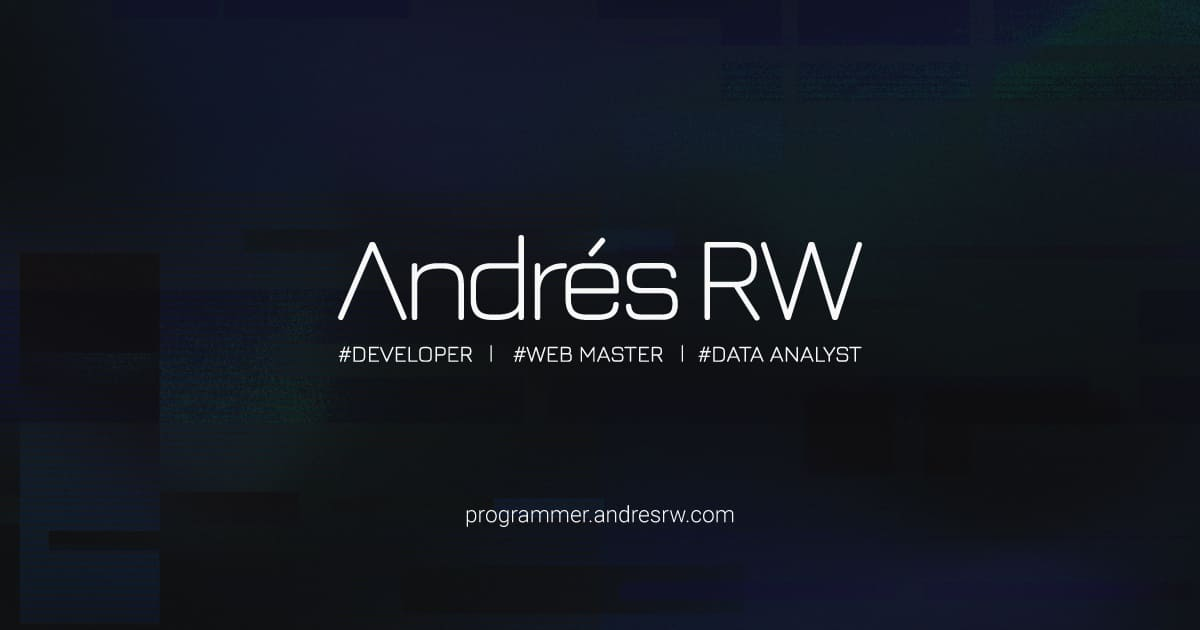
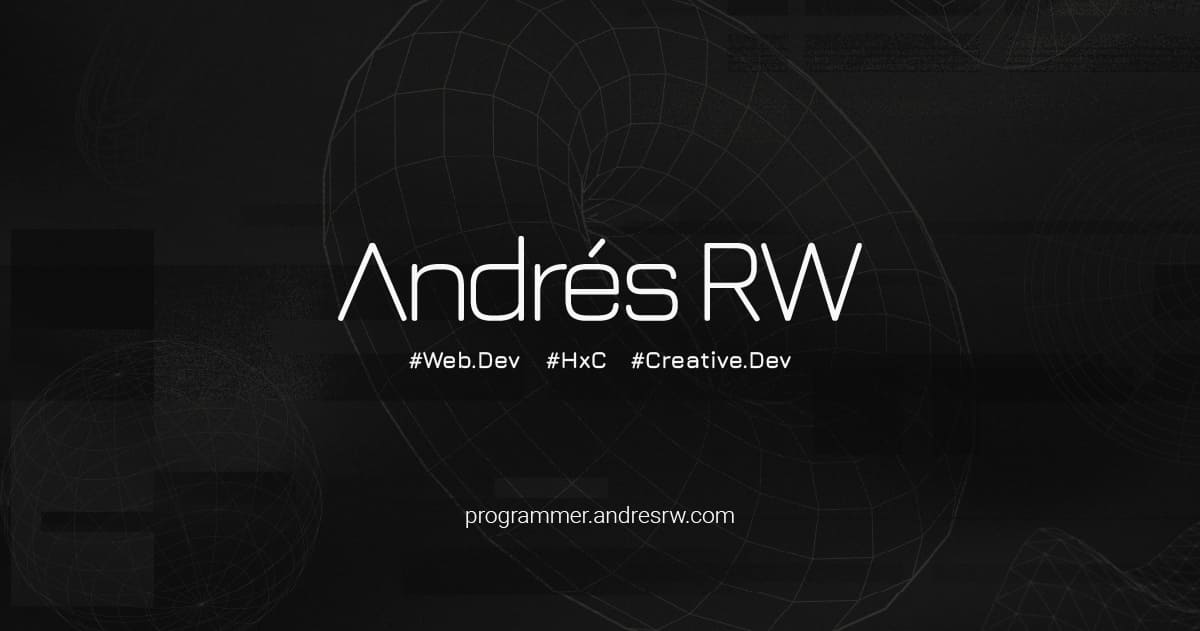
Home no responsive canvas

diff --git a/src/components/home/SceneHome.tsx b/src/components/home/SceneHome.tsx
@@ -1,7 +1,14 @@
 'use client'
 import { Canvas, } from "@react-three/fiber";
-import { Torus } from "./geometris/Torus";
-import { Bloom, EffectComposer } from "@react-three/postprocessing";
+import {
+  Bloom, EffectComposer,
+  ASCII,
+  HueSaturation,
+  Scanline
+} from "@react-three/postprocessing";
+import { useRef } from "react";
+import { useThree, useFrame } from "@react-three/fiber";
+import { Mesh } from "three";
 
 export const StamentScene = () => {
   return (
@@ -12,17 +19,40 @@ export const StamentScene = () => {
         <ambientLight intensity={2} />
         <directionalLight position={[5, 5, 5]} intensity={1} castShadow />
         <pointLight position={[-5, -5, -5]} intensity={0.8} color="white" />
-        <Torus />
         <EffectComposer>
           <Bloom
-            intensity={0.1}
-            luminanceThreshold={0}
+            intensity={0.5}
+            luminanceThreshold={0.3}
             luminanceSmoothing={0.3}
             height={200} />
+
+          <HueSaturation hue={0.5} saturation={0.8} />
+          <Scanline />
         </EffectComposer>
+        <Geometryhome />
       </Canvas>
     </div>
   );
 };
 
+interface GeometriesProps {
 
+}
+
+const Geometryhome = () => {
+  const dodeca = useRef<Mesh>(null!)
+
+  useFrame(() => {
+    if (dodeca.current) {
+      dodeca.current.rotation.x += 0.001
+      dodeca.current.rotation.y += 0.001
+      dodeca.current.rotation.z += 0.001
+    }
+  })
+  return (
+    <mesh ref={dodeca} position={[0, 0, 0]}>
+      <torusKnotGeometry args={[3, 0.3, 100, 50]} />
+      <meshBasicMaterial wireframe />
+    </mesh>
+  )
+}

diff --git a/src/components/layers/Statement.tsx b/src/components/layers/Statement.tsx
@@ -1,24 +1,26 @@
-import { 
-    BackScene, 
-    GlassContainer,
-    Box,
-    TextStament,
-    StamentScene
- } from "@/components"
+import {
+  BackScene,
+  GlassContainer,
+  Torus,
+  TextStament,
+  StamentScene
+} from "@/components"
 
-
-export default function StatementLayer () {
-    return (
-      <div
-        className="relative h-dvh w-dvw flex 
+export default function StatementLayer() {
+  return (
+    <div
+      className="relative h-dvh w-dvw flex 
         justify-center items-center">
-        <BackScene>
-            <Box />
-        </BackScene>
-        <GlassContainer>
-          <TextStament />
-          <StamentScene/>
-        </GlassContainer>
-      </div>
-    );
+      <BackScene>
+        <Torus numx={0.000} numy={0.000}
+          numz={0.003}
+          size={[12, 6, 20, 20]}
+          position={[0, 0, -10]} />
+      </BackScene>
+      <GlassContainer>
+        <TextStament />
+        <StamentScene />
+      </GlassContainer>
+    </div>
+  );
 }

diff --git a/src/components/utils/geometries/Torus.tsx b/src/components/utils/geometries/Torus.tsx
@@ -1,0 +1,38 @@
+import { useRef } from "react"
+import { Mesh } from "three"
+import { useFrame } from "@react-three/fiber"
+
+interface TorusProps {
+    numx: number
+    numy: number
+    numz: number
+    size: [number, number, number, number]
+    position: [number, number, number]
+}
+
+export const Torus = ({
+    numx,
+    numy,
+    numz,
+    position,
+    size
+}: TorusProps) => {
+
+    const torusRef = useRef<Mesh>(null!)
+
+    useFrame(() => {
+        if (torusRef.current) {
+            torusRef.current.rotation.x += numx
+            torusRef.current.rotation.y += numy
+            torusRef.current.rotation.z += numz
+        }
+    })
+
+    return (
+        <mesh ref={torusRef} position={position}
+            rotation={[1, 0, 0]}>
+            <meshBasicMaterial wireframe />
+            <torusGeometry args={size} />
+        </mesh>
+    )
+}

diff --git a/src/components/utils/BackScene.tsx b/src/components/utils/BackScene.tsx
@@ -17,19 +17,18 @@ export const BackScene = ({ children }: BackSceneProps) => {
       <Canvas
         flat
         dpr={[1, 1.5]}
-        camera={{ position: [0, 0, 0], fov: 50 }}
+        camera={{ position: [0, 0, 0], fov: 50, near: 0.1, far: 2000 }}
         gl={{
           antialias: false,
-          powerPreference: 'low-power',
+          powerPreference: 'high-performance',
         }}
         className='absolute top-0
         left-0 w-full h-full' >
         <color attach="background" args={['#000']} />
         <Suspense fallback={null}>
-          {children}
           <SceneSttings />
           <EffectsScene />
-          <Box />
+          {children}
         </Suspense>
       </Canvas>
     </div>

diff --git a/src/components/utils/EffectsScene.tsx b/src/components/utils/EffectsScene.tsx
@@ -1,26 +1,15 @@
 import {
-    Bloom,
-    Noise,
-    ChromaticAberration,
-    Scanline
+    Bloom
 } from '@react-three/postprocessing'
-import { Vector2 } from 'three'
 
 export const EffectsScene = () => {
     return (
         <>
             <Bloom
-                luminanceThreshold={0}
+                luminanceThreshold={0.9}
                 luminanceSmoothing={0.9}
-                height={300}
+                height={1000}
             />
-            <Noise opacity={0.02} />
-            <ChromaticAberration
-                offset={new Vector2(1, 1)}
-                radialModulation={true}
-                modulationOffset={0.5}
-            />
-            <Scanline />
         </>
     )
 }

diff --git a/src/components/utils/geometries/Box.tsx b/src/components/utils/geometries/Box.tsx
@@ -1,0 +1,28 @@
+import { useRef, useEffect } from "react";
+import { useThree, useFrame } from "@react-three/fiber";
+import { Mesh } from "three";
+
+interface BoxProps {
+  numy: number;
+  numx: number;
+  size: [number, number, number];
+  position: [number, number, number];
+}
+
+export const Box = ({ numx, numy, position, size }: BoxProps) => {
+  const box = useRef<Mesh>(null!);
+
+  useFrame(() => {
+    if (box.current) {
+      box.current.rotation.x += numx;
+      box.current.rotation.y += numy
+    }
+  });
+
+  return (
+    <mesh ref={box} position={[20, 0, -5]}>
+      <meshBasicMaterial wireframe />
+      <boxGeometry args={size} />
+    </mesh>
+  );
+};

diff --git a/src/components/index.tsx b/src/components/index.tsx
@@ -18,8 +18,8 @@ export { BtnSlide } from '@/components/utils/BtnSlide';
 export { BtnContend } from '@/components/utils/BtnSlide';
 export { GlassContainer } from '@/components/utils/GlassContainer';
 export { GlassTitle } from '@/components/utils/GlassTitle';
-export { Box } from '@/components/utils/Box';
-
+export { Box } from '@/components/utils/geometries/Box';
+export { Torus } from '@/components/utils/geometries/Torus';
 //Stament 
 export { TextStament } from '@/components/home/TextStament';
 export { StamentScene } from '@/components/home/SceneHome';

diff --git a/src/components/layers/AboutMe.tsx b/src/components/layers/AboutMe.tsx
@@ -1,18 +1,20 @@
-import { 
-  BackScene, 
-  GlassContainer, 
+import {
+  BackScene,
+  GlassContainer,
   Box,
   TextAbout
- } from "@/components";
+} from "@/components";
 
- const AboutLayer = () => {
+const AboutLayer = () => {
   return (
     <div
       className="relative h-dvh w-dvw flex 
         justify-center items-center"
     >
       <BackScene>
-        <Box />
+        <Box numx={0.01} numy={0.01}
+          size={[20, 0, -5]}
+          position={[6, 6, 6]} />
       </BackScene>
       <GlassContainer>
         <TextAbout />

diff --git a/src/components/utils/SceneSettings.tsx b/src/components/utils/SceneSettings.tsx
@@ -4,7 +4,7 @@ export const SceneSttings = () => {
     return (
         <>
             <ambientLight intensity={0.5} />
-            <OrthographicCamera makeDefault position={[0, 0, 0]} zoom={1} />
+            <OrthographicCamera makeDefault position={[0, 0, 0]} zoom={30} />
             <directionalLight position={[0, 0, 0]} intensity={1} castShadow />
         </>
     )
